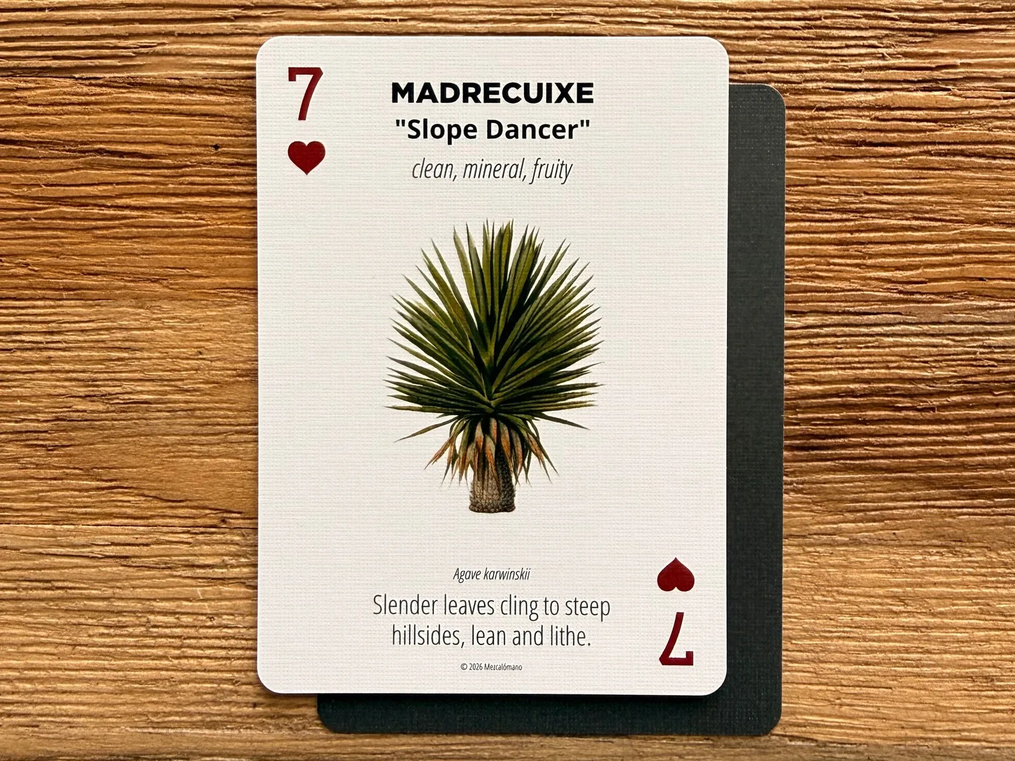
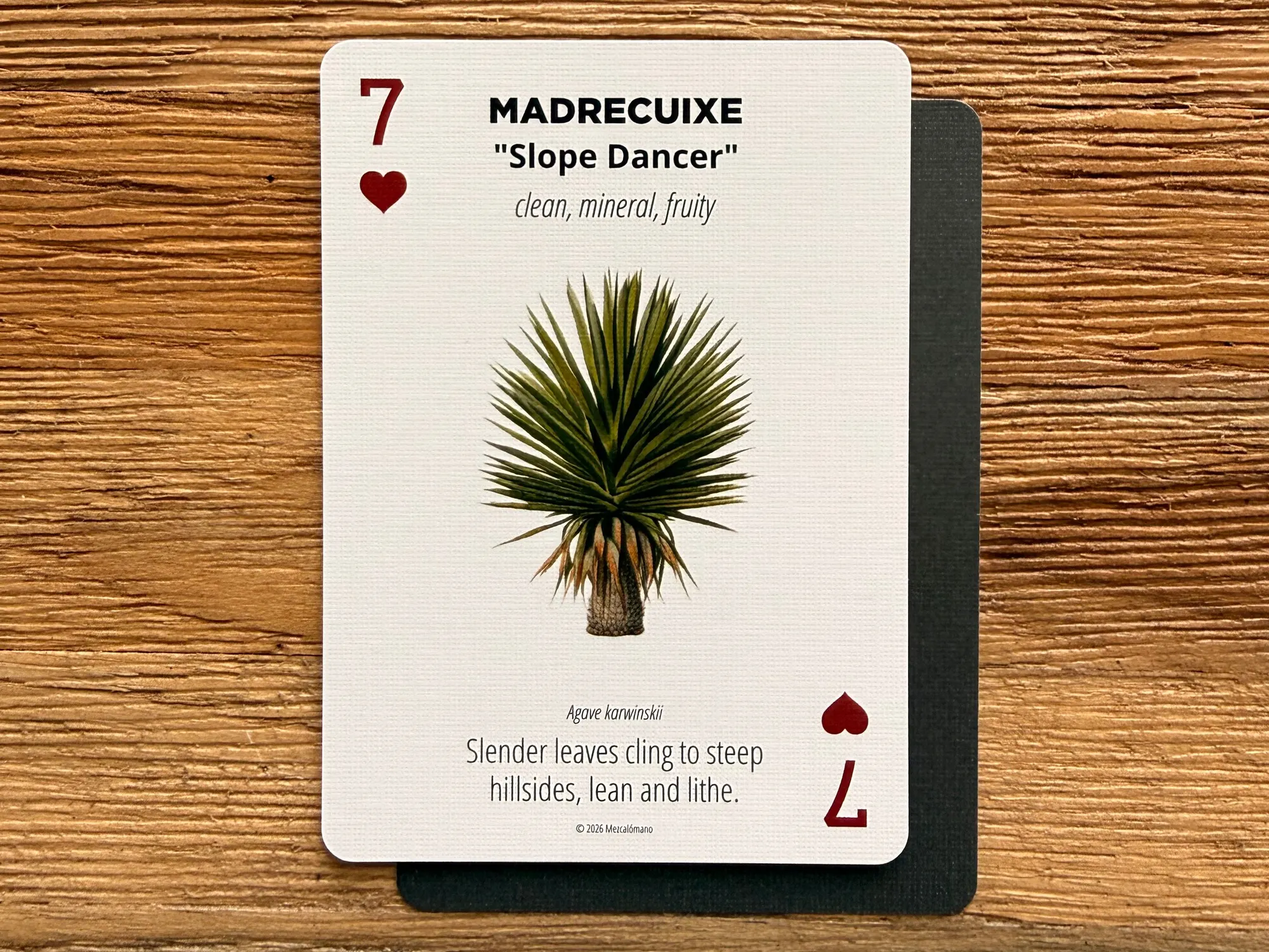
Small Pours: render links and bold in the answer and FAQ, show the whole card in the Karwinskii hero
Claude-Session: https://claude.ai/code/session_011WvomTJzN2cXfiHUh5WTuX

diff --git a/src/app/(site)/small-pours/[slug]/page.tsx b/src/app/(site)/small-pours/[slug]/page.tsx
@@ -28,6 +28,11 @@ export async function generateMetadata({ params }: { params: Promise<Params> }):
   };
 }
 
+/** Flattens **bold** and [label](href) to plain words for structured data. */
+function plain(text: string) {
+  return text.replace(/\[([^\]]+)\]\([^)]+\)/g, "$1").replace(/\*\*([^*]+)\*\*/g, "$1");
+}
+
 function formatDate(iso: string) {
   return new Date(iso + "T12:00:00Z").toLocaleDateString("en-US", { month: "long", day: "numeric", year: "numeric", timeZone: "UTC" });
 }
@@ -57,7 +62,7 @@ export default async function PostPage({ params }: { params: Promise<Params> }) 
   const faqLd = {
     "@context": "https://schema.org",
     "@type": "FAQPage",
-    mainEntity: e.faq.map((f) => ({ "@type": "Question", name: f.q, acceptedAnswer: { "@type": "Answer", text: f.a } })),
+    mainEntity: e.faq.map((f) => ({ "@type": "Question", name: f.q, acceptedAnswer: { "@type": "Answer", text: plain(f.a) } })),
   };
 
   return (
@@ -82,7 +87,7 @@ export default async function PostPage({ params }: { params: Promise<Params> }) 
         <div className="j-col">
           <p className="s-eyebrow">{e.category}</p>
           <h1>{e.title}</h1>
-          <p className="j-answer">{e.answer}</p>
+          <p className="j-answer"><PostText text={e.answer} /></p>
           <p className="j-by">
             By Kimber and Siona · {e.published ? formatDate(e.published) : "Draft"} · Checked {formatDate(e.updated)}
           </p>
@@ -125,7 +130,7 @@ export default async function PostPage({ params }: { params: Promise<Params> }) 
             {e.faq.map((f) => (
               <div key={f.q}>
                 <dt>{f.q}</dt>
-                <dd>{f.a}</dd>
+                <dd><PostText text={f.a} /></dd>
               </div>
             ))}
           </dl>

diff --git a/src/lib/small-pours/karwinskii-family-explained.ts b/src/lib/small-pours/karwinskii-family-explained.ts
@@ -12,8 +12,8 @@ export const karwinskiiFamilyExplained: PostEntry = {
     image: {
       src: "/small-pours/karwinskii-family-explained-hero.webp",
       alt: "The Madrecuixe card from the Discovery Deck on a wood table.",
-      width: 1600,
-      height: 1200
+      width: 2000,
+      height: 1500
     },
     body: [
       {
